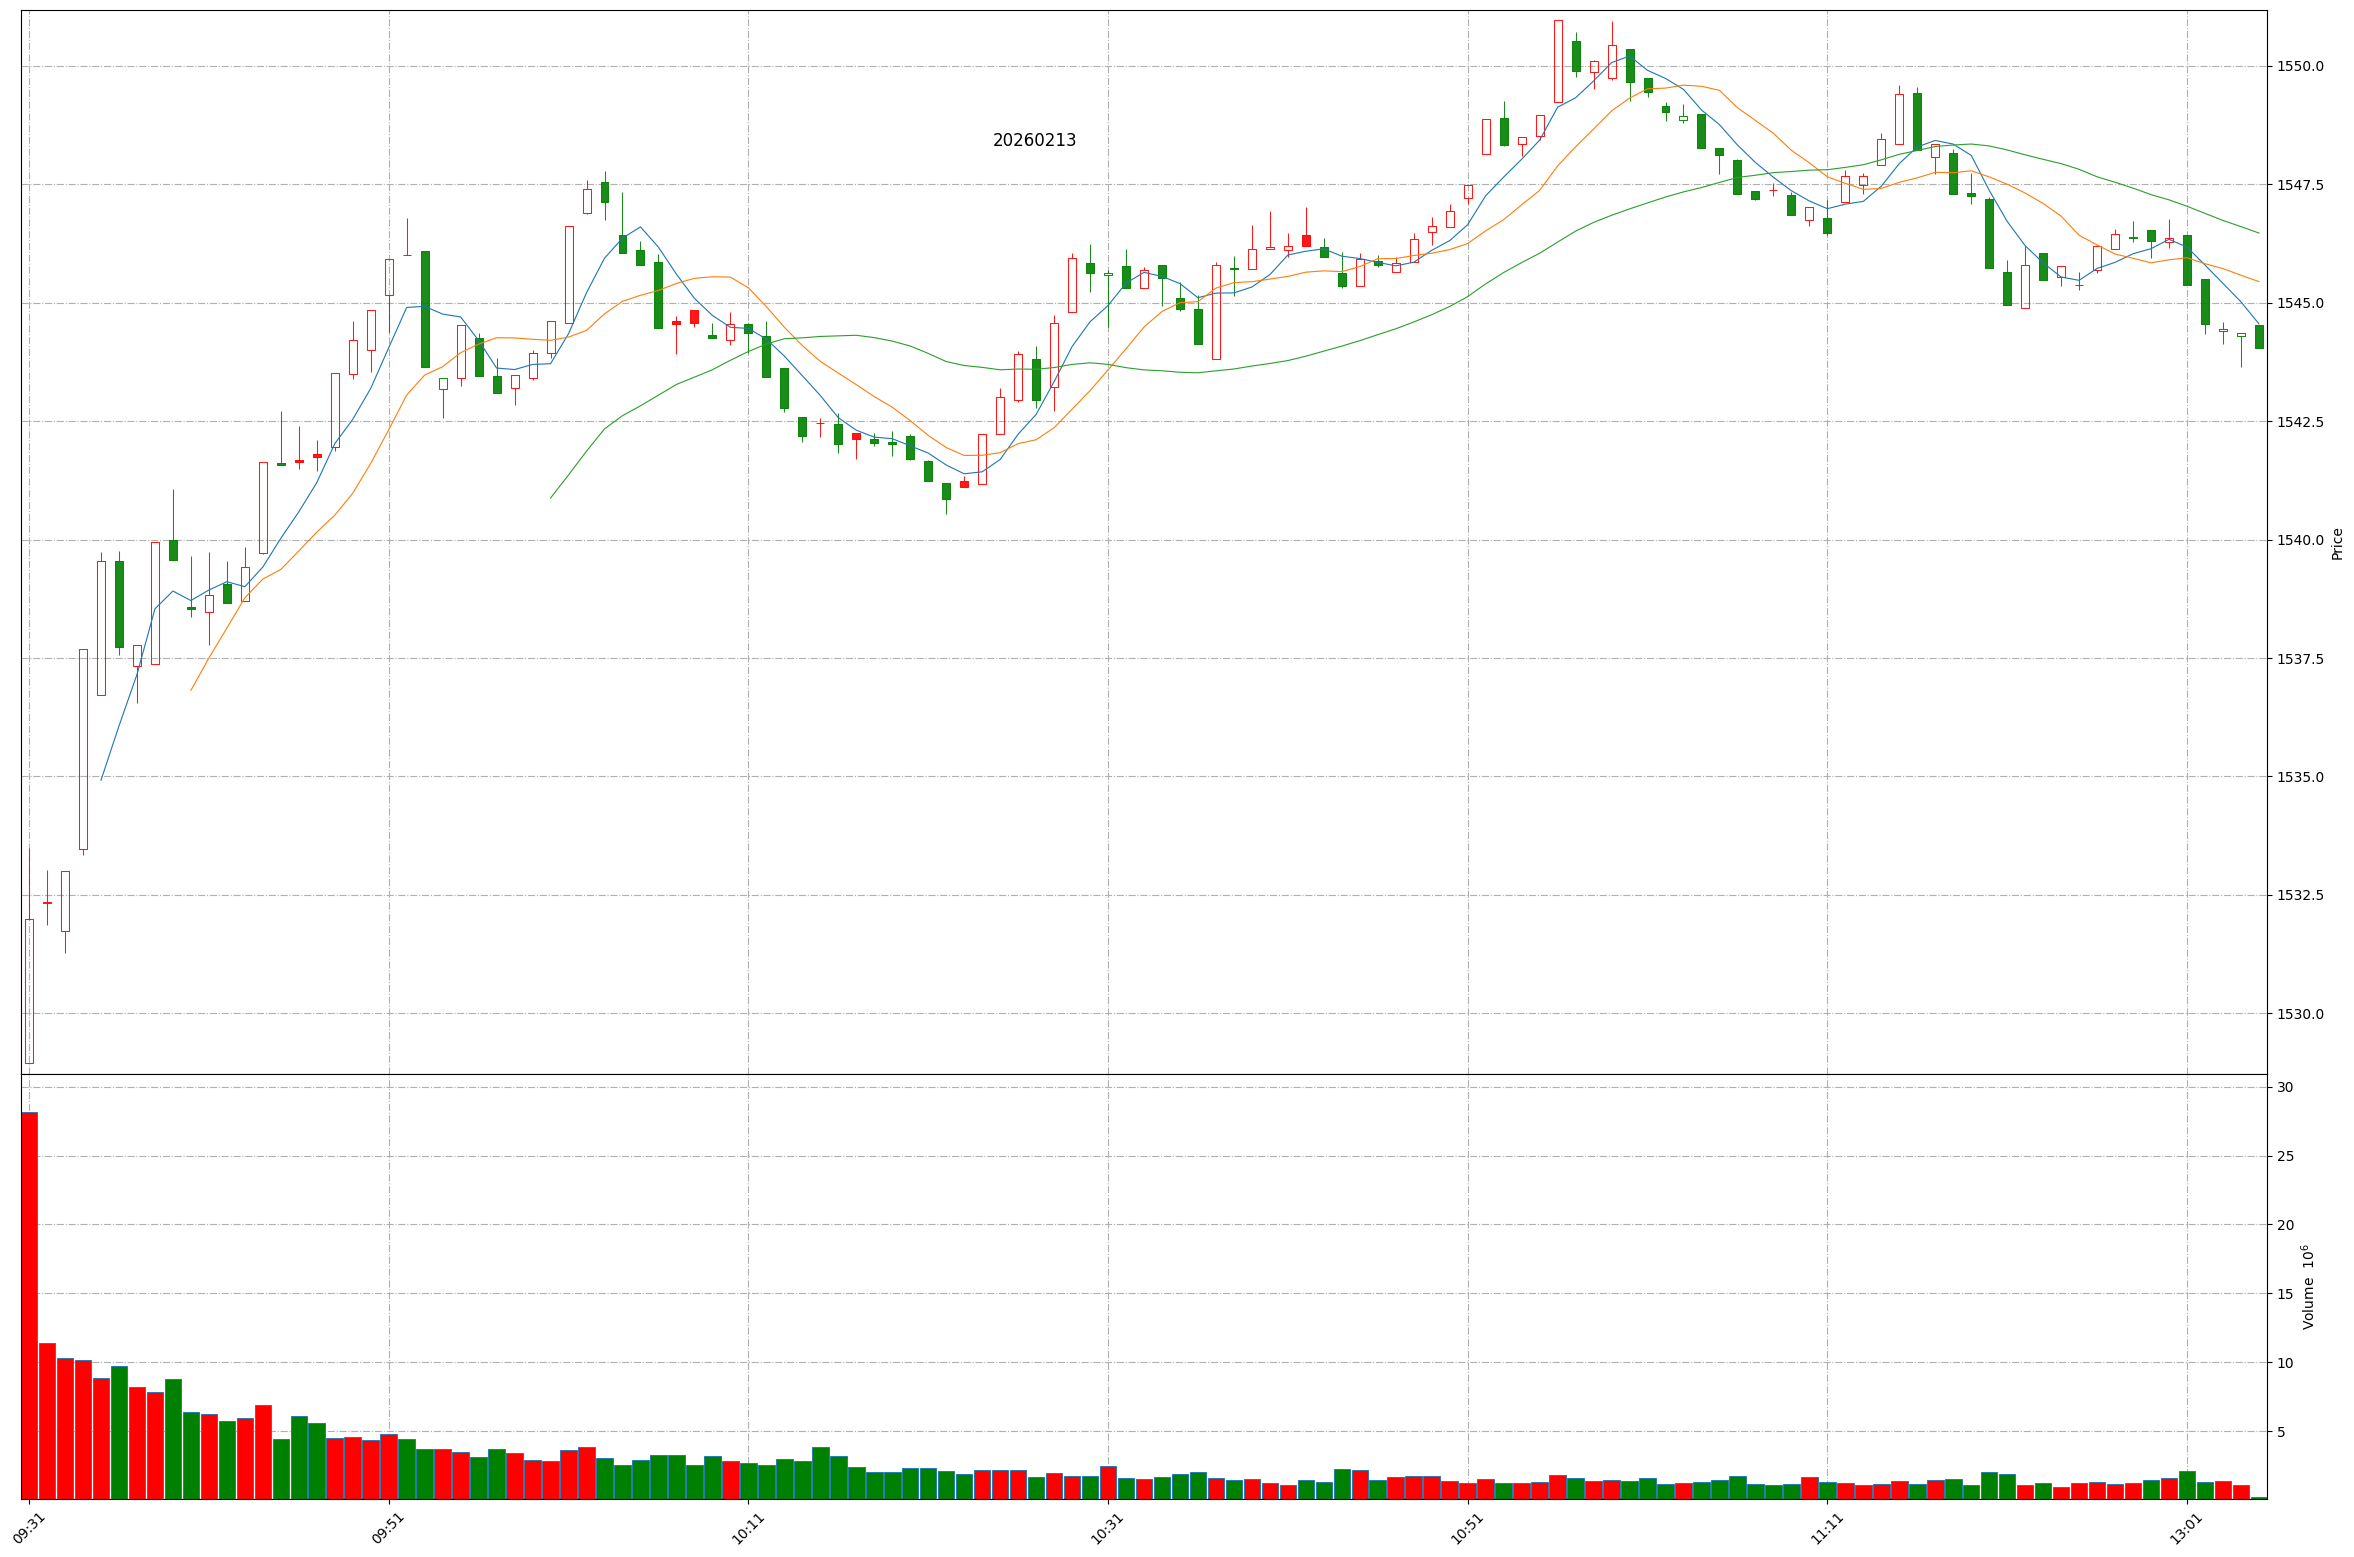
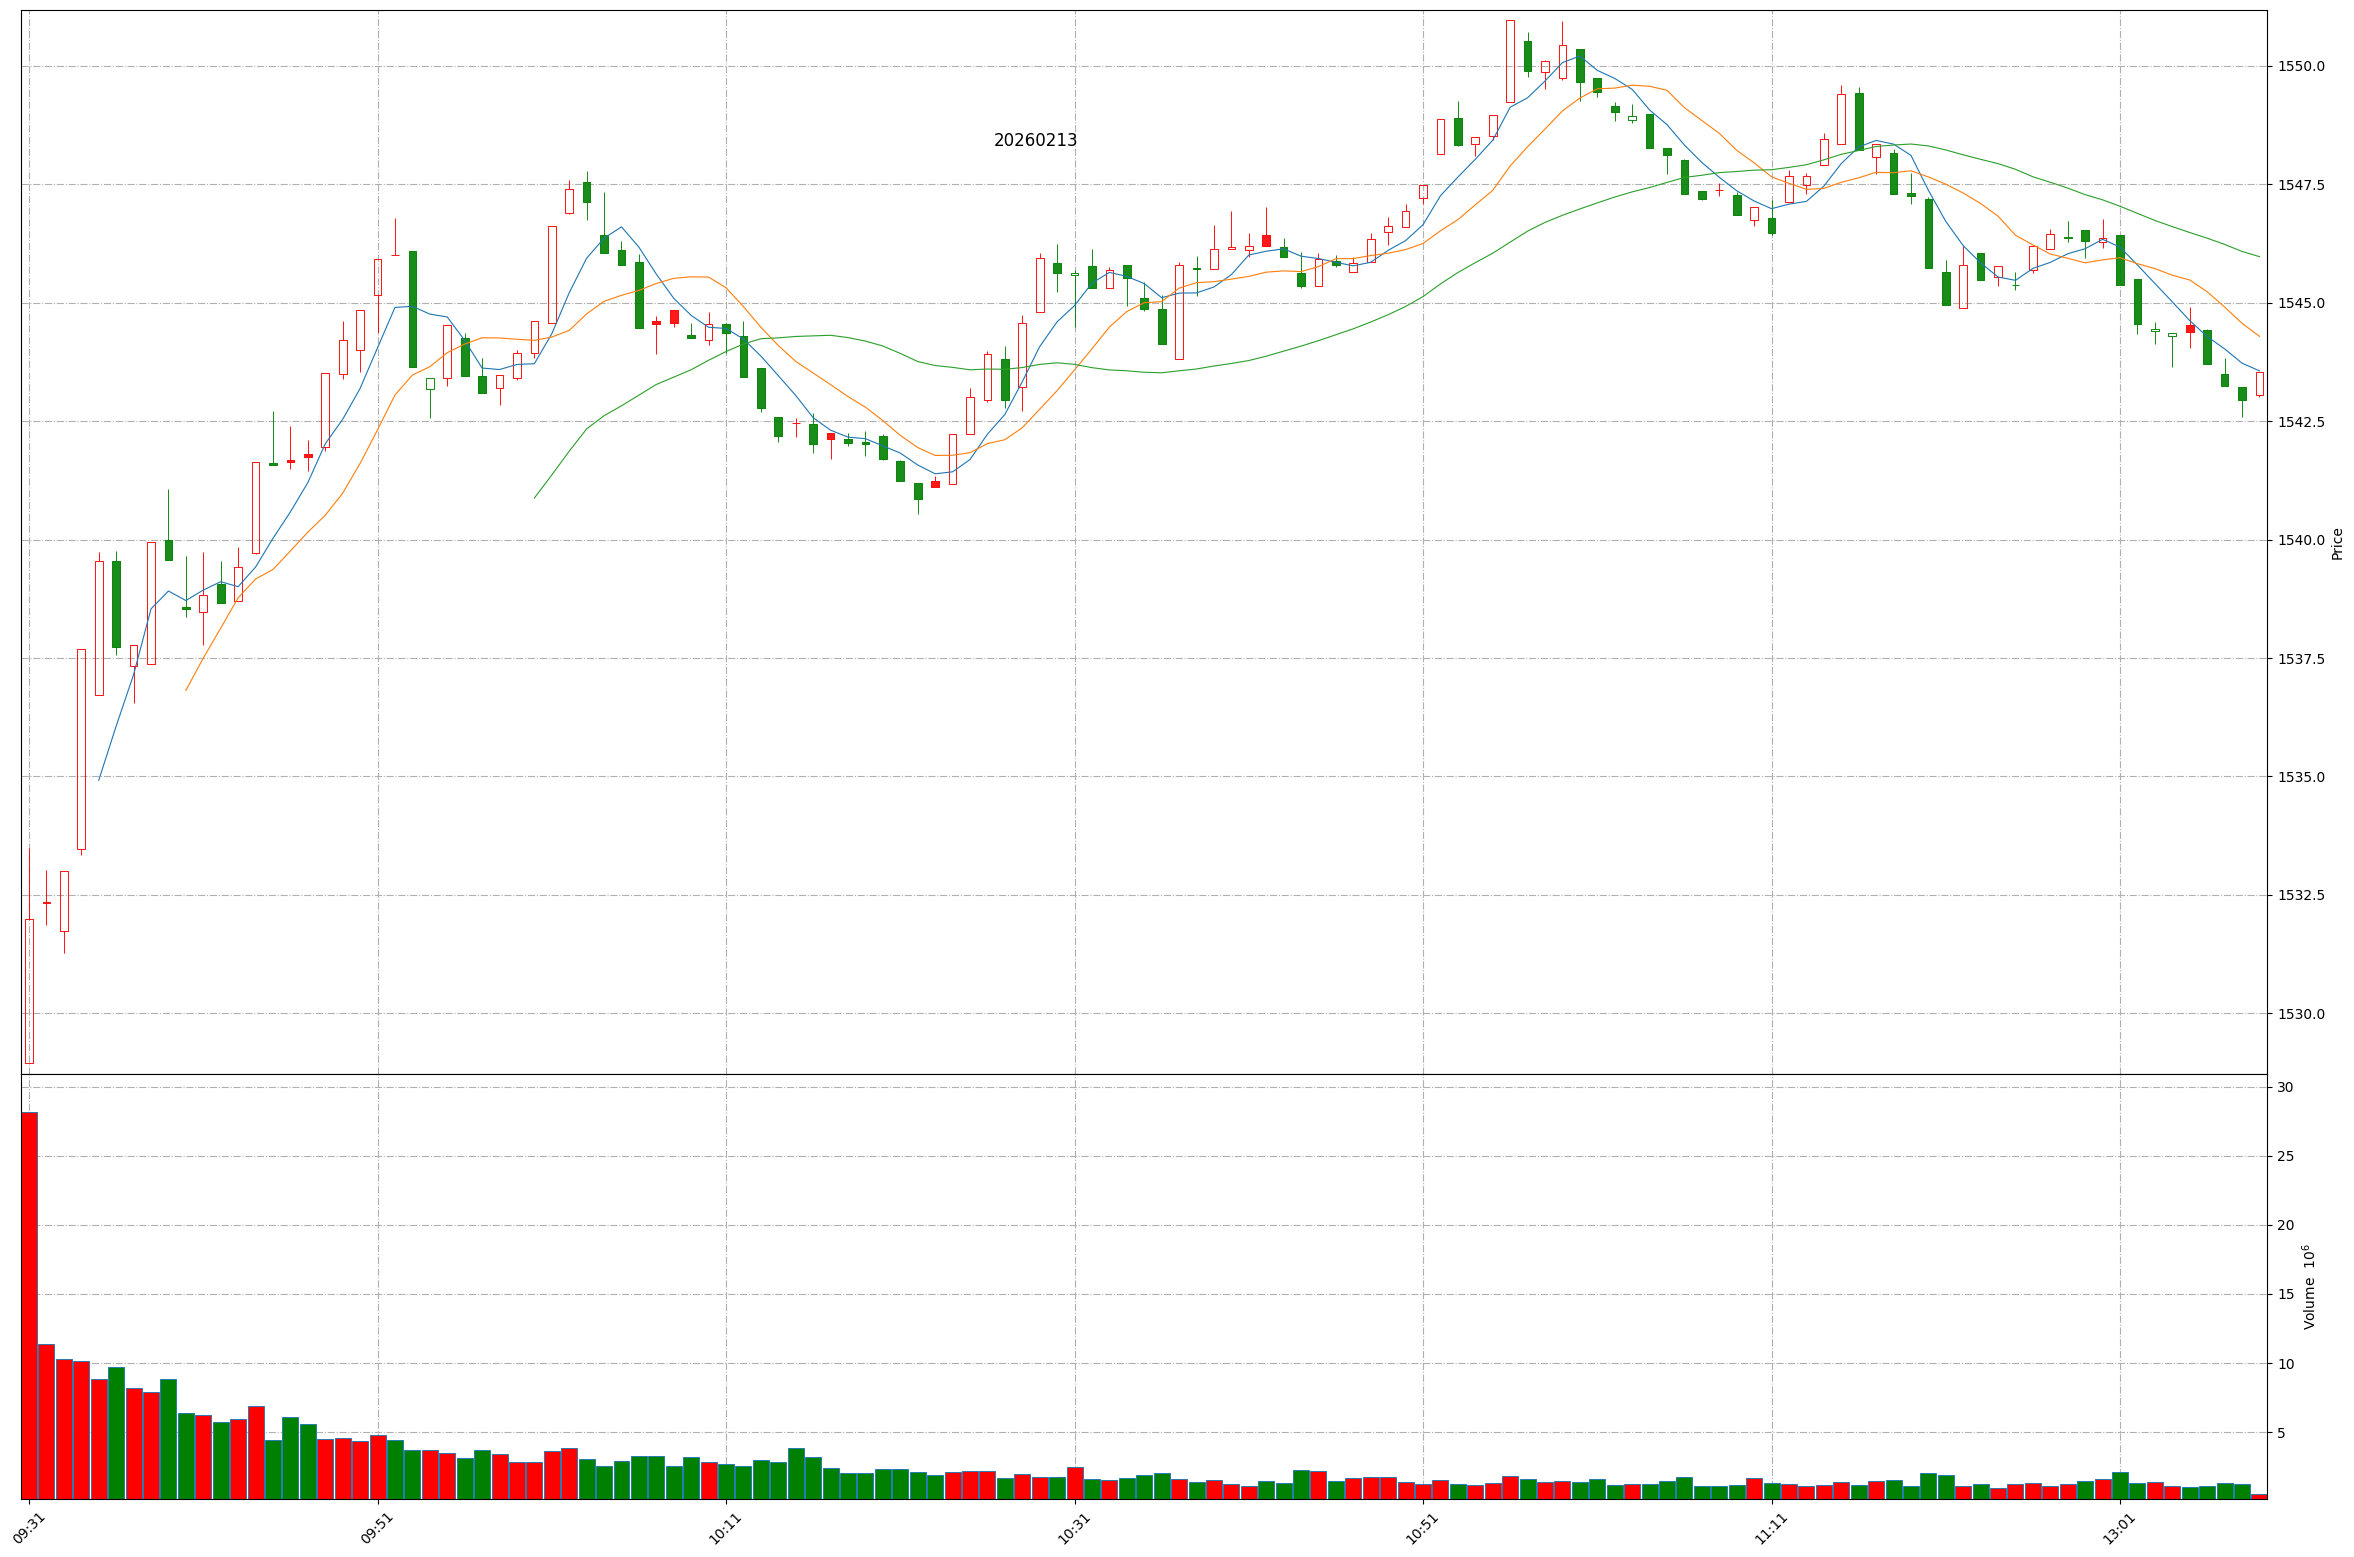
Github action update at 2026-02-13 13:08:51.

Changed region(s): [[0.124, 0.0308, 0.9613, 0.3391], [0.031, 0.8632, 0.9613, 0.9865], [0.031, 0.3391, 0.124, 0.4933]]

diff --git a/README.md b/README.md
@@ -1,11 +1,11 @@
 
 # Daily-A-share-market-quotes 每日 A 股指数（5min 更新）- 20260213
 
-### 上证指数 20260213 13:4
+### 上证指数 20260213 13:8
 ![](./fig/2026/2/20260213-sh000001.png)
 
-### 深证成指 20260213 13:4
+### 深证成指 20260213 13:8
 ![](./fig/2026/2/20260213-sz399001.png)
 
-### 北证50 20260213 13:4
+### 北证50 20260213 13:8
 ![](./fig/2026/2/20260213-bj899050.png)
